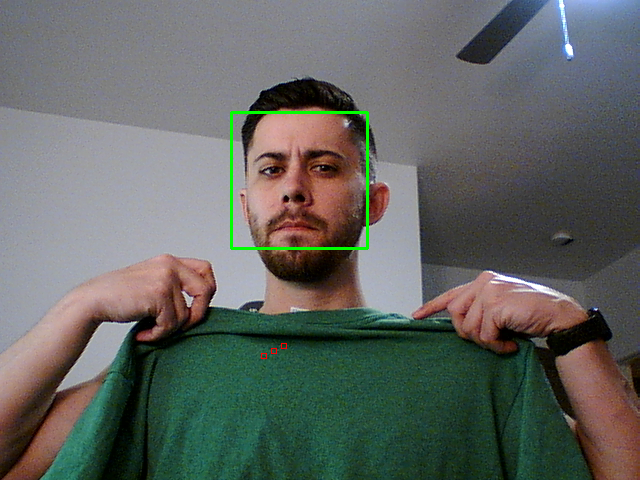
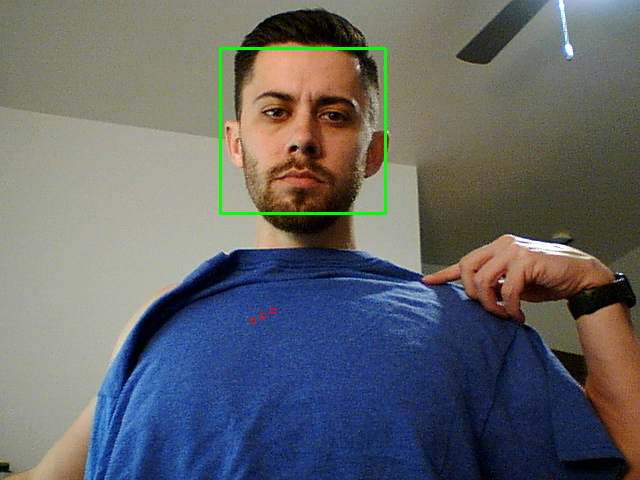
Adding todays colors

diff --git a/index.html b/index.html
@@ -1,1 +1,1 @@
-{"generalColor": "Grey", "BGR": "6.666666666666667,103.66666666666667,76.0"}
+{"generalColor": "Blue", "BGR": "112.66666666666667,179.33333333333334,65.33333333333333"}
